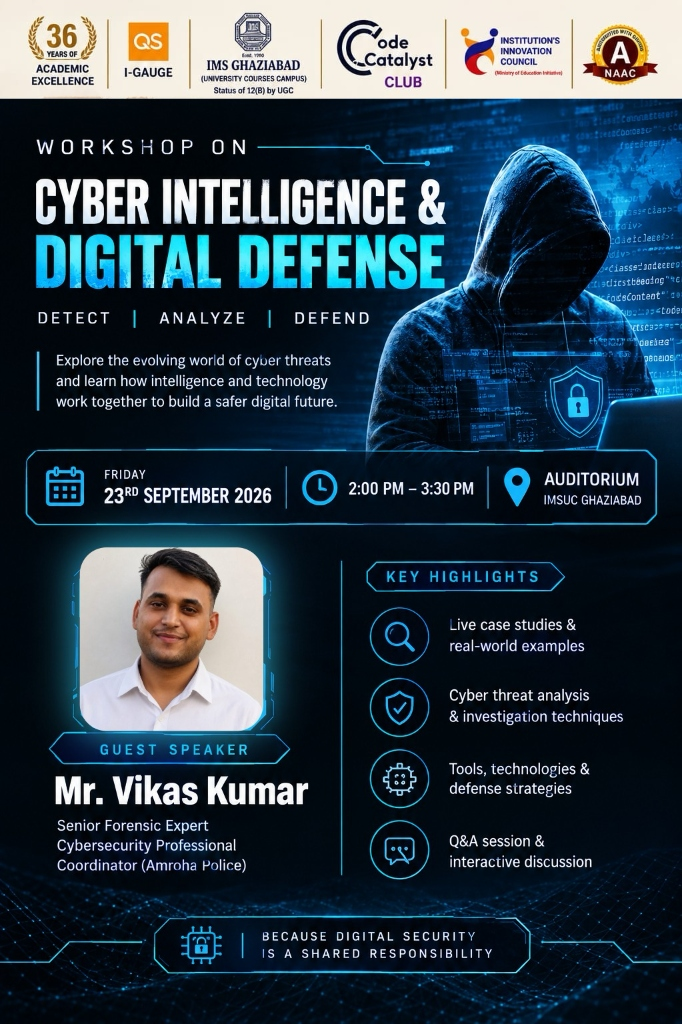
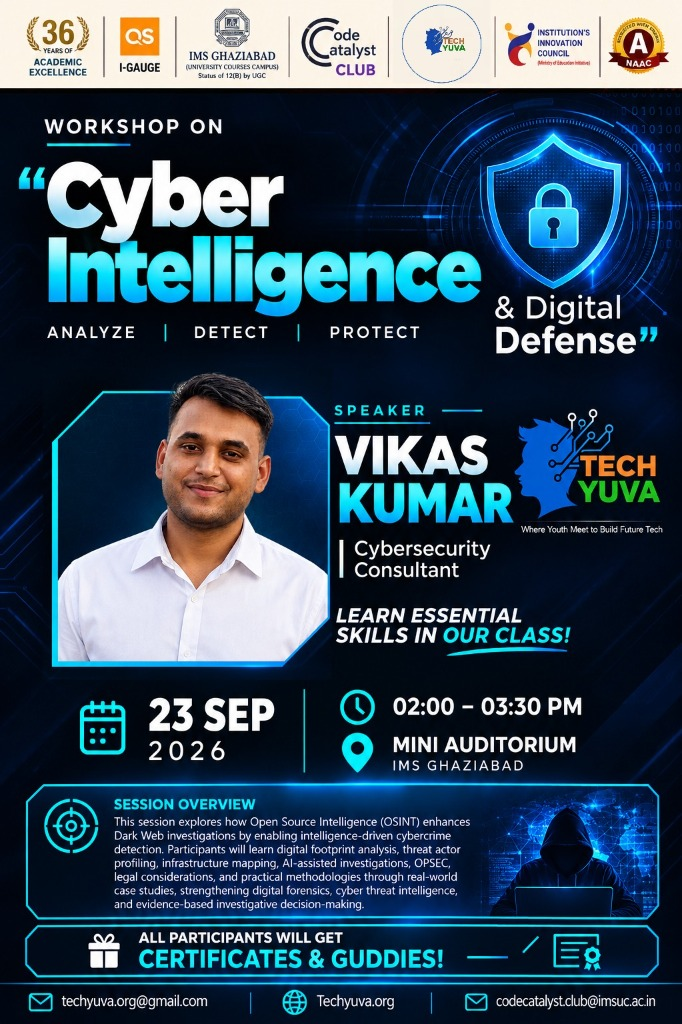
fix(event): update hero terminal text, remove seats remaining, redirect pass button to Google Form, update poster image, add privacy policy modal

diff --git a/src/App.tsx b/src/App.tsx
@@ -77,6 +77,7 @@ export default function App() {
   // Modal states
   const [selectedEventForReg, setSelectedEventForReg] = useState<EventItem | null>(null);
   const [selectedPosterUrl, setSelectedPosterUrl] = useState<string | null>(null);
+  const [isPrivacyModalOpen, setIsPrivacyModalOpen] = useState(false);
 
   // Dynamic Full-Stack Registry Queries
   const { data: dbEvents = UPCOMING_EVENTS } = useQuery({
@@ -758,36 +759,15 @@ export default function App() {
                         ))}
                       </div>
 
-                      <div className="flex items-center justify-between gap-2">
-                        <div className="font-mono text-[10px] text-secondary-text">
-                          Seats Remaining: <span className="text-saffron font-bold text-xs">{evt.spotsLeft !== undefined ? evt.spotsLeft : 25}</span>
-                        </div>
-                        {evt.externalLink ? (
-                          <a
-                            href={evt.externalLink}
-                            target="_blank"
-                            rel="noopener noreferrer"
-                            className="px-4 py-1.5 bg-[#1E90FF]/20 backdrop-blur-xl border border-[#1E90FF]/40 hover:bg-[#1E90FF]/30 text-white text-xs font-mono font-bold uppercase tracking-widest rounded-lg shadow-[0_0_15px_rgba(30,144,255,0.3)] transition-all cursor-pointer inline-block text-center"
-                          >
-                            SECURE PASS
-                          </a>
-                        ) : (evt.metadata as any)?.registrationOpen === false ? (
-                          <button
-                            type="button"
-                            onClick={() => handleViewEventDetail((evt.metadata as any)?.slug || evt.id)}
-                            className="px-4 py-1.5 bg-[#00BFFF]/10 backdrop-blur-xl border border-[#00BFFF]/30 hover:bg-[#00BFFF]/20 text-[#00BFFF] text-xs font-mono font-bold uppercase tracking-widest rounded-lg transition-all cursor-pointer"
-                          >
-                            VIEW DETAILS
-                          </button>
-                        ) : (
-                          <button
-                            type="button"
-                            onClick={() => setSelectedEventForReg(evt)}
-                            className="px-4 py-1.5 bg-[#1E90FF]/20 backdrop-blur-xl border border-[#1E90FF]/40 hover:bg-[#1E90FF]/30 text-white text-xs font-mono font-bold uppercase tracking-widest rounded-lg shadow-[0_0_15px_rgba(30,144,255,0.3)] transition-all cursor-pointer"
-                          >
-                            SECURE PASS
-                          </button>
-                        )}
+                      <div className="flex items-center justify-end gap-2">
+                        <a
+                          href={evt.externalLink || "https://docs.google.com/forms/d/e/1FAIpQLSdbSMHXwTHOOgAwZzKoWrhFbvbc__MyOve3Ik50tIhFepz2Iw/viewform?usp=dialog"}
+                          target="_blank"
+                          rel="noopener noreferrer"
+                          className="px-5 py-2 bg-[#1E90FF]/20 backdrop-blur-xl border border-[#1E90FF]/40 hover:bg-[#1E90FF]/30 text-white text-xs font-mono font-bold uppercase tracking-widest rounded-lg shadow-[0_0_15px_rgba(30,144,255,0.3)] transition-all cursor-pointer inline-block text-center"
+                        >
+                          SECURE PASS
+                        </a>
                       </div>
                     </div>
                   </div>
@@ -1321,6 +1301,7 @@ export default function App() {
               <li><button onClick={() => scrollToSection(mainOffersRef)} className="hover:text-text-primary transition-colors cursor-pointer text-left">Developer Offerings</button></li>
               <li><button onClick={() => scrollToSection(mainEventsRef)} className="hover:text-text-primary transition-colors cursor-pointer text-left">Upcoming Events</button></li>
               <li><button onClick={() => scrollToSection(mainGalleryRef)} className="hover:text-text-primary transition-colors cursor-pointer text-left">Historic Logs</button></li>
+              <li><button onClick={() => setIsPrivacyModalOpen(true)} className="hover:text-text-primary transition-colors cursor-pointer text-left text-cyan-400">Privacy Policy</button></li>
             </ul>
           </div>
 
@@ -1339,7 +1320,7 @@ export default function App() {
         </div>
 
         <div className="max-w-7xl mx-auto flex flex-col sm:flex-row items-center justify-between gap-4 text-[10px]">
-          <p>© 2026 Tech Yuva Guild Council. All rights secured internationally.</p>
+          <p>© 2026 Tech Yuva Guild Council. All rights secured internationally. • <button onClick={() => setIsPrivacyModalOpen(true)} className="hover:text-text-primary text-cyan-400 underline cursor-pointer">Privacy Policy</button></p>
           <div className="flex items-center gap-4 text-text-secondary">
             <a href="https://www.instagram.com/techyuva_/" target="_blank" rel="noreferrer" className="hover:text-text-primary transition-colors flex items-center gap-1"><Instagram className="w-3.5 h-3.5" /> Follow us on Instagram</a>
             <span className="text-border-color">|</span>
@@ -1364,6 +1345,32 @@ export default function App() {
         isOpen={selectedCertificate !== null}
         onClose={() => setSelectedCertificate(null)}
       />
+
+      {/* PRIVACY POLICY MODAL */}
+      {isPrivacyModalOpen && (
+        <div className="fixed inset-0 z-50 flex items-center justify-center p-4 bg-black/80 backdrop-blur-sm" onClick={() => setIsPrivacyModalOpen(false)}>
+          <div className="bg-[#0c0f13] border border-[#1E90FF]/30 p-6 md:p-8 rounded-xl shadow-[0_0_50px_rgba(30,144,255,0.15)] max-w-xl w-full max-h-[85vh] overflow-y-auto space-y-4" onClick={e => e.stopPropagation()}>
+            <div className="flex items-center justify-between border-b border-white/10 pb-3">
+              <h2 className="text-lg font-bold font-display uppercase text-text-primary">Privacy Policy • Tech Yuva</h2>
+              <button onClick={() => setIsPrivacyModalOpen(false)} className="text-gray-400 hover:text-white text-xs font-mono">✕ Close</button>
+            </div>
+            <div className="text-xs text-secondary-text font-mono leading-relaxed space-y-3">
+              <p>Tech Yuva ("we", "our", or "us") is committed to protecting your privacy and developer data integrity.</p>
+              <h4 className="text-white font-bold uppercase text-[11px] pt-1">1. Information We Collect</h4>
+              <p>We collect minimal information required for event participation, developer pass issuance, and community engagement—specifically name, email address, GitHub handle, and organization/institute name.</p>
+              <h4 className="text-white font-bold uppercase text-[11px] pt-1">2. How Information Is Used</h4>
+              <p>Your details are strictly used to coordinate workshops, issue verified digital certificates, send event updates, and verify hackathon check-ins.</p>
+              <h4 className="text-white font-bold uppercase text-[11px] pt-1">3. Data Protection & Sharing</h4>
+              <p>We do NOT sell, rent, or trade student or member data to third-party advertisers. Data stored in our database is protected using industry-standard encryption and security protocols.</p>
+              <h4 className="text-white font-bold uppercase text-[11px] pt-1">4. Contact Seat</h4>
+              <p>For privacy inquiries or data removal requests, contact the Lead Architect seat at <span className="text-[#00BFFF]">techyuva.org@gmail.com</span>.</p>
+            </div>
+            <div className="pt-2 flex justify-end">
+              <button onClick={() => setIsPrivacyModalOpen(false)} className="px-5 py-2 bg-[#1E90FF]/20 border border-[#1E90FF]/40 text-[#00BFFF] text-xs font-bold uppercase rounded-lg hover:bg-[#1E90FF]/30 transition-all cursor-pointer">Acknowledge</button>
+            </div>
+          </div>
+        </div>
+      )}
 
       {/* LOGIN MODAL */}
       {isLoginModalOpen && (

diff --git a/src/components/HeroTerminal.tsx b/src/components/HeroTerminal.tsx
@@ -55,10 +55,10 @@ console.log("Your journey starts here 🚀");`;
 
     // Sequence execution simulation
     const logs = [
-      "⚡ Initializing Vercel Edge Node...",
-      "🔍 Resolving dependencies from package.json...",
-      "📦 Implemented module structures...",
-      "⚙ Compiling TypeScript server targets to CommonJS...",
+      "⚡ Initializing Tech Yuva Core...",
+      "🔍 Connecting Developer Network...",
+      "📦 Syncing Innovation Engine...",
+      "⚙ Compiling Cyber Intelligence & Defense modules...",
       "✅ Execution success in 143ms."
     ];
 
@@ -69,7 +69,7 @@ console.log("Your journey starts here 🚀");`;
         currentLogIdx++;
       } else {
         clearInterval(logInterval);
-        setOutputResult("⚡ Initialized Tech Yuva Ecosystem.\n🚀 Real Projects • Hackathons • Startup Culture\n✨ Welcome to the Community!");
+        setOutputResult("⚡ Initialized Tech Yuva Ecosystem.\n🚀 Workshops • Cyber Security • Hackathons • Startup Culture\n✨ Welcome to the Community!");
         setIsRunning(false);
         setExecutionLine(-1);
         setDisplayTitle("WHERE YOUTH MEET TO BUILD FUTURE TECH");

diff --git a/src/db/seedCMS.ts b/src/db/seedCMS.ts
@@ -30,6 +30,7 @@ export async function seedDefaultEvents() {
       description: "Explore the evolving world of cyber threats and learn how intelligence and technology work together to build a safer digital future.",
       status: "upcoming" as const,
       image: "/cyber-defense-poster.jpg",
+      externalLink: "https://docs.google.com/forms/d/e/1FAIpQLSdbSMHXwTHOOgAwZzKoWrhFbvbc__MyOve3Ik50tIhFepz2Iw/viewform?usp=dialog",
       spotsTotal: 100,
       spotsLeft: 100,
       featured: true,
@@ -70,6 +71,7 @@ export async function seedDefaultEvents() {
         description: cyberEvent.description,
         status: cyberEvent.status,
         image: cyberEvent.image,
+        externalLink: cyberEvent.externalLink,
         metadata: cyberEvent.metadata,
         featured: cyberEvent.featured
       }

diff --git a/src/data.ts b/src/data.ts
@@ -13,6 +13,7 @@ export const UPCOMING_EVENTS: EventItem[] = [
     description: "Explore the evolving world of cyber threats and learn how intelligence and technology work together to build a safer digital future.",
     status: "upcoming",
     spotsLeft: 100,
+    externalLink: "https://docs.google.com/forms/d/e/1FAIpQLSdbSMHXwTHOOgAwZzKoWrhFbvbc__MyOve3Ik50tIhFepz2Iw/viewform?usp=dialog",
     featured: true,
     image: "/cyber-defense-poster.jpg",
     metadata: {
